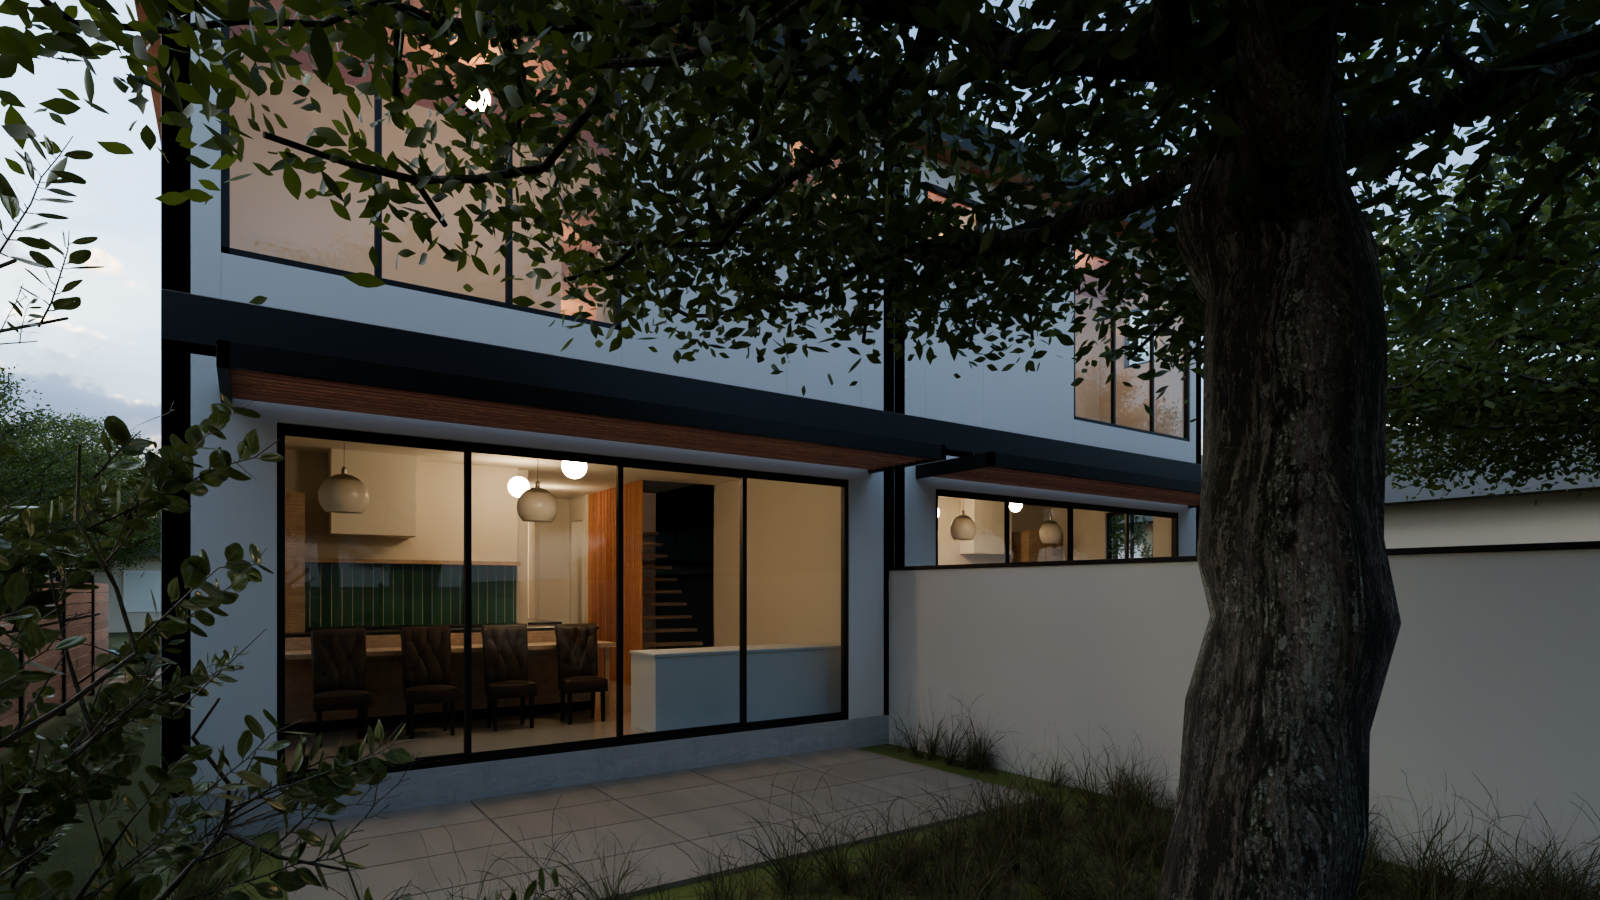
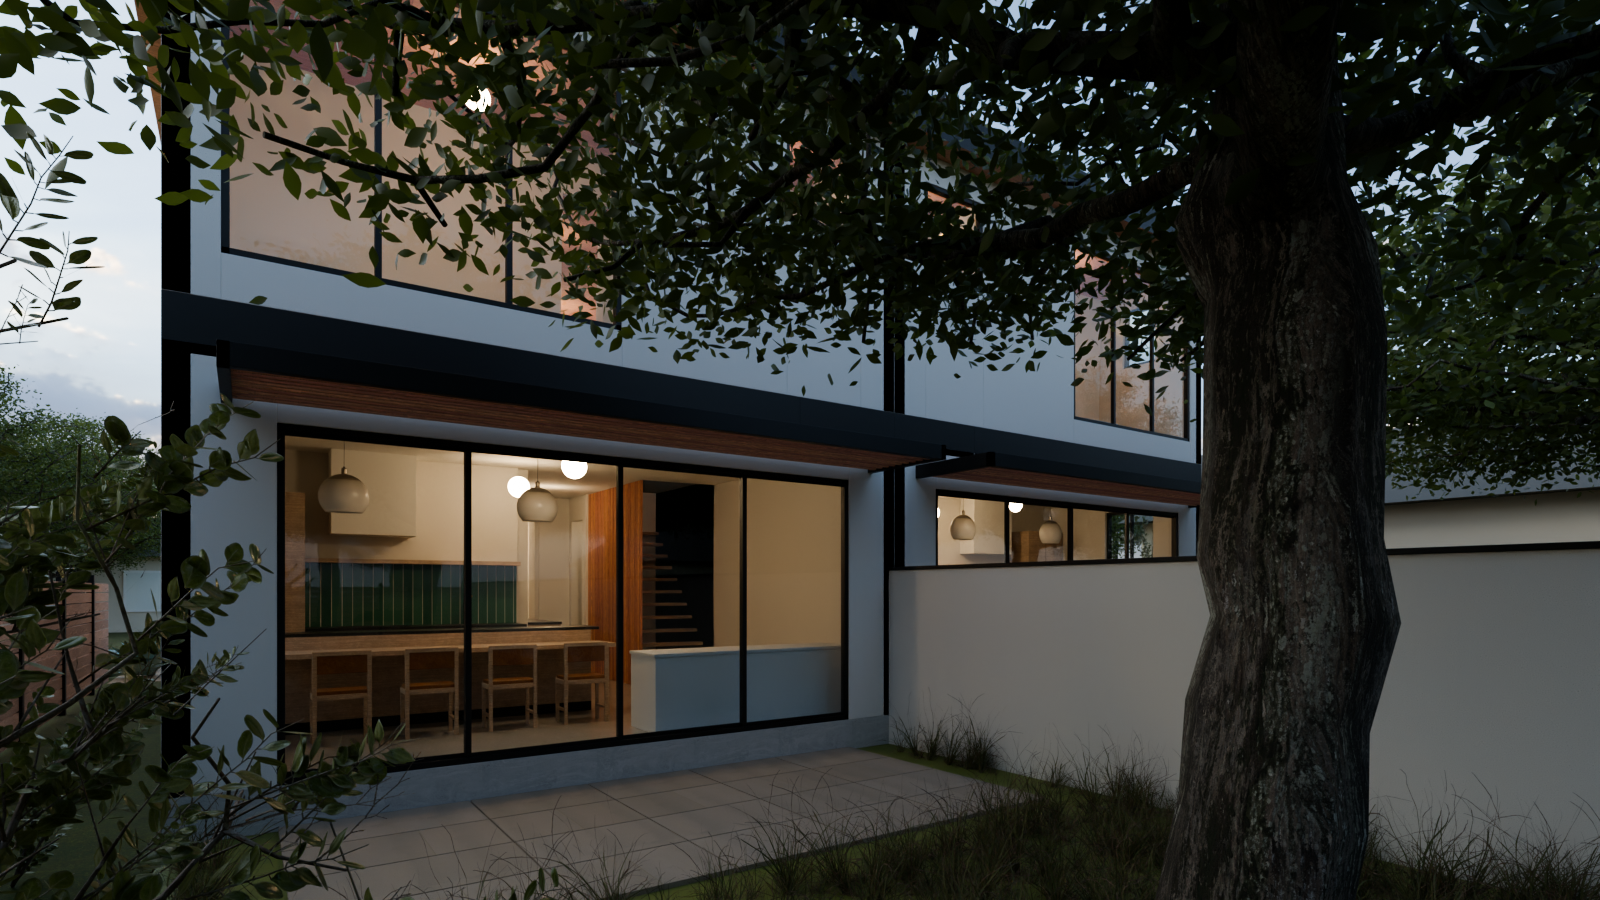
Final renders: kitchen and pátio with oak chairs, upstairs hall, Casita at the street, trio from above, side drive
Primary bath camera moved into the shower looking out to the vanity; the mirror glass
now sits proud of its brass rim so it reflects the room.

Claude-Session: https://claude.ai/code/session_01XdWRs5tEZnKaCsnygQJSQB

Changed region(s): [[0.1875, 0.6844, 0.4062, 0.8089]]

diff --git a/phase2/render/hifi.py b/phase2/render/hifi.py
@@ -49,7 +49,7 @@ VIEWS = {
                        sun=300, strength=1.0, exposure=0.35, night=True, night_level=0.3),
     "kitchen": dict(site="L1-D1", cam=(22.6, 52.6, 5.8), tgt=(11.0, 37.5, 5.1), lens=18, hdri="day", sun=200,
                     strength=1.0, exposure=1.9, night=True, night_level=0.12),
-    "primary_bath": dict(site="L1-D1", cam=(20.0, 53.2, 16.7), tgt=(23.2, 46.0, 15.4), lens=15, hdri="day", sun=200,
+    "primary_bath": dict(site="L1-D1", cam=(23.0, 53.0, 16.3), tgt=(23.2, 45.2, 15.0), lens=18, hdri="day", sun=200,
                          strength=1.0, exposure=1.6, night=True, night_level=0.15),
     "side_drive": dict(site="L4-T1", cam=(-5.0, -23.0, 5.4), tgt=(19.0, 23.0, 9.8), lens=24, hdri="afternoon", sun=232,
                        strength=1.0, exposure=-0.1, night=False),
@@ -403,7 +403,7 @@ def primary_bath(L, coll, t, name):
     mx, my = tp(t, 18.2, 30.2)
     for nmx, mat, rr, off in (("rim", L["brass"], 1.12, 0.0), ("mirror", L["mirror"], 1.05, 0.02)):
         ob = BA.cyl(f"{name} mirror {nmx}", coll, mat, mx, my, 0, 0.05, rr, axis="Y", segs=64)
-        ob.location = (mx * M, (my + (0.05 if t["rot"] == 0 else -0.05) * (1 if not t["mirror"] else 1)) * M,
+        ob.location = (mx * M, (my + ((0.05 + off) if t["rot"] == 0 else -(0.05 + off))) * M,   # the glass sits proud of the rim
                        (z0 + 5.3) * M)
     for sxx in (16.75, 19.55 - 0.1):
         gx, gy = tp(t, sxx, 30.55)

diff --git a/phase2/lookbook/build.py b/phase2/lookbook/build.py
@@ -254,8 +254,8 @@ walls and a white upper floor.</p>
     P.append(page(nxt(), "II · Inside", "Baths and the stair, lit from above",
                   "Skylights where they count: over the primary shower, the tub, the stair, the walk-in and the laundry.",
                   f'<div class="two">'
-                  f'{fig(img.get("primary_bath", ""), "The primary bath", "A walk-in shower under a skylight, green tile to the ceiling, a brass rain head; a floating oak vanity with a limestone top, a round mirror and two brass sconces.")}'
-                  f'{fig(img.get("upper_hall", ""), "The upstairs hall", "A long skylight over the open oak stair washes the hall with daylight; cedar slats screen the stair from the rooms.")}'
+                  f'{fig(img.get("primary_bath", ""), "The primary bath", "Seen from the walk-in shower: green tile to the ceiling under a skylight; a floating oak vanity with a limestone top and vessel sink, a round brass mirror between two sconces, a wall-hung wc.")}'
+                  f'{fig(img.get("upper_hall", ""), "The upstairs hall", "A skylight over the open oak stair washes the hall with daylight under a cedar ceiling; cedar slats screen the stair, and the landing desk sits behind the cobogó.")}'
                   f'</div>'))
     cols = []
     for title, rows in (("Kitchen", KITCHEN), ("Baths", BATHS), ("Details", DETAILS)):

diff --git a/phase2/web/build.py b/phase2/web/build.py
@@ -57,10 +57,10 @@ P2_CAPTIONS = {
     "duo_street": "The pair from the street: limestone corners, cedar carport gates, one cobogó lantern between the doors.",
     "duo_dusk": "At dusk the stair light turns the cobogó into a lantern.",
     "duo_entry": "Each front door sits under the cobogó, on a black calçada threshold.",
-    "duo_garden": "Each home opens at the back to its own pátio, under a cedar sunshade.",
+    "duo_garden": "Evening at the back: each home opens to its own pátio under a cedar sunshade.",
     "kitchen": "Kitchen: rift oak, green tile, a granite island with an oak table built on.",
-    "primary_bath": "Primary bath: green tile to the ceiling and a skylight over the shower.",
-    "upper_hall": "Upstairs, a skylight runs the length of the stair.",
+    "primary_bath": "Primary bath: from the green-tiled shower to the oak vanity, the round brass mirror and sconces.",
+    "upper_hall": "Upstairs: a skylight over the stair, a cedar ceiling, and a desk on the landing behind the cobogó.",
     "trio_street": "On an alley lot the Casita faces the street behind its walled garden; the pair sits back.",
     "side_drive": "On a 65 ft lot one drive serves all three; the street sees a limestone wall, the cobogó above.",
     "trio_aerial": "From above: the pair at the street, the Casita behind with its own garden.",
